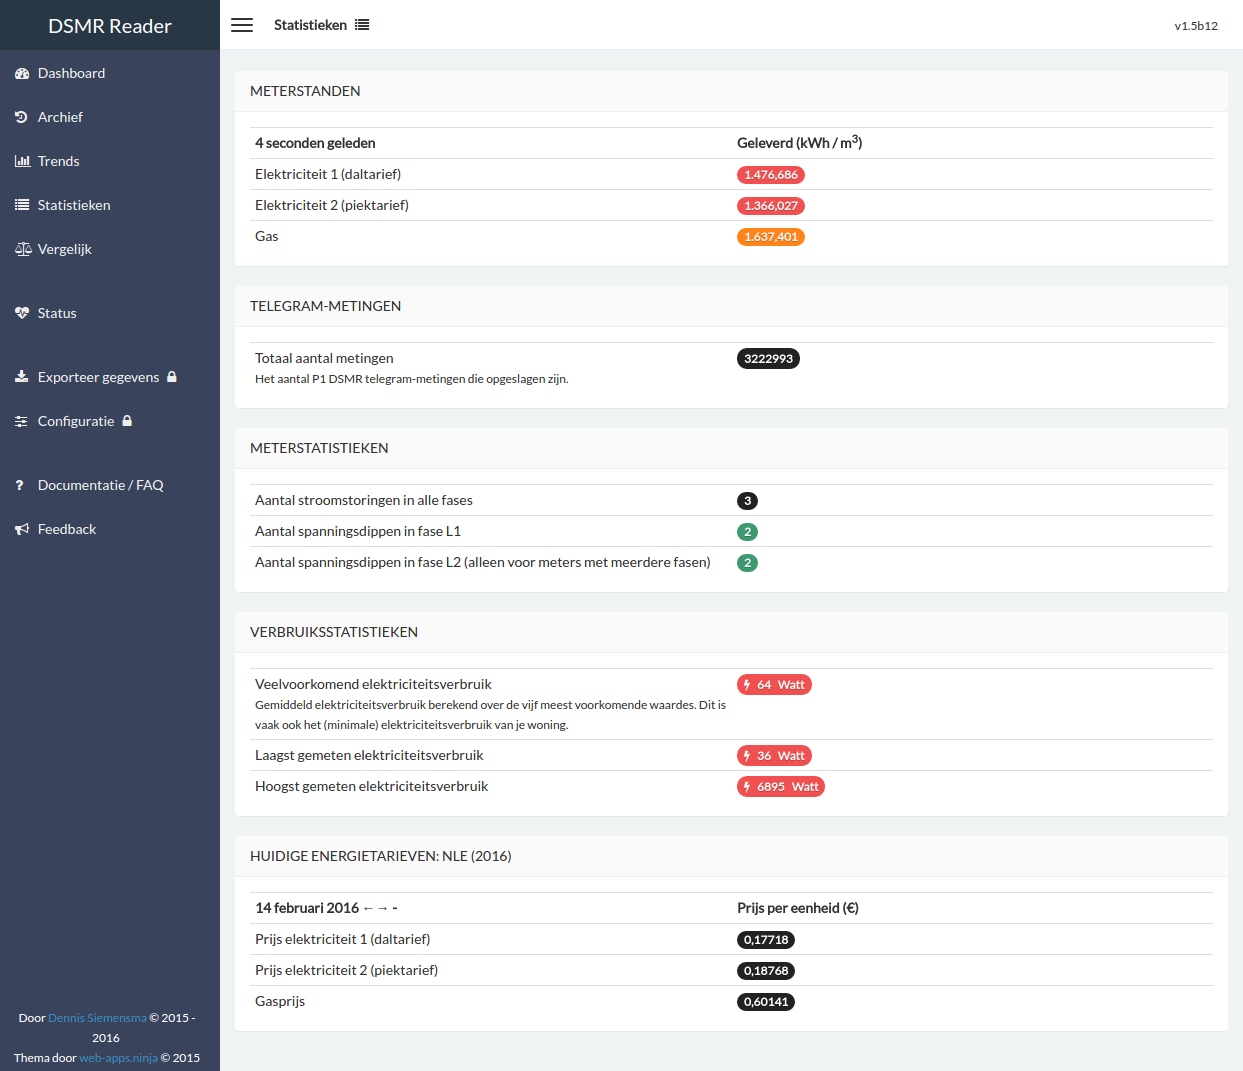
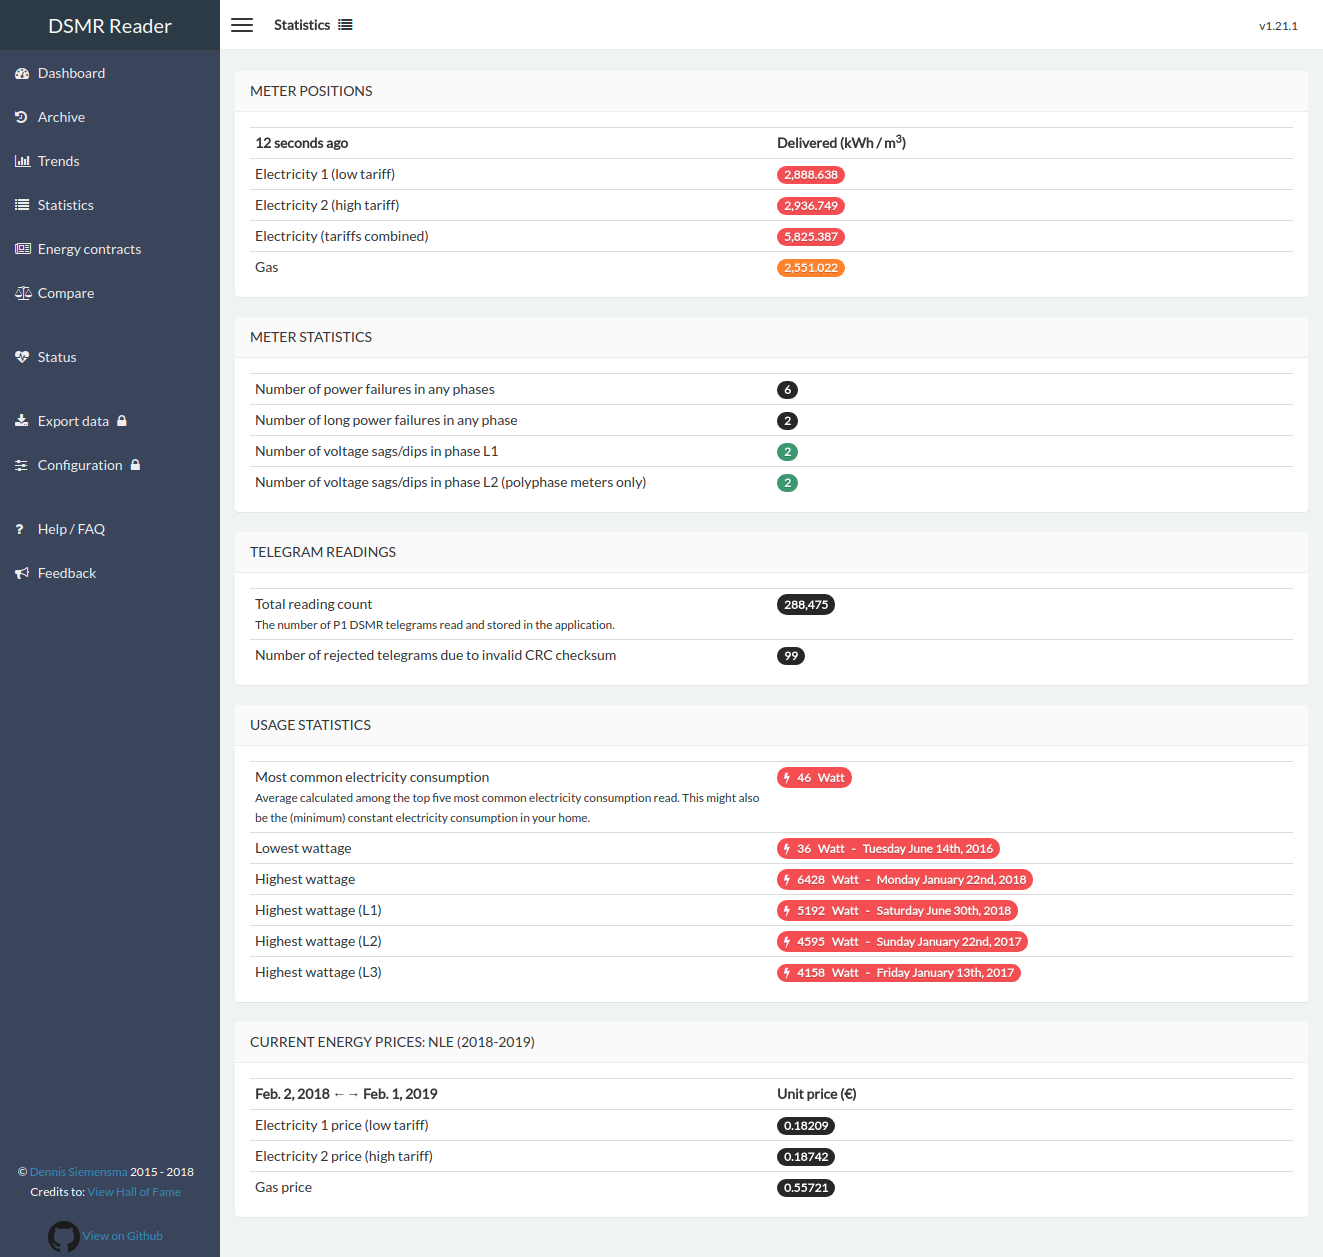
Update documentation screenshots #495

diff --git a/README.md b/README.md
@@ -4,13 +4,8 @@
 [![Requirements Status](https://requires.io/github/dennissiemensma/dsmr-reader/requirements.svg?branch=master)](https://requires.io/github/dennissiemensma/dsmr-reader/requirements/?branch=master)
 [![Donate](https://img.shields.io/badge/Donate-PayPal-green.svg)](https://dsmr-reader.readthedocs.io/en/latest/donations.html)
 
-# DSMR Reader Datalogger/GUI
 
-## Project mission & goals
-- Have fun by reading your smart meter at home yourself!
-- Provide an easy to use setup for logging your own energy consumption.
-- Keeping your data for yourself (all data is stored locally and untracked as well).
-- Always free to use (and open source).
+# DSMR Reader Datalogger/GUI
 
 
 ## Documentation (`English` & `Nederlands`)
@@ -18,8 +13,22 @@
 - `Nederlands`: Zie [Read The Docs, in het Nederlands](https://dsmr-reader.readthedocs.io/nl/latest/). Je kunt daar ook alle installatieinstructies vinden.
 
 
-## Screenshots
-More screenshots can be found in the documentation at [Read The Docs](https://dsmr-reader.readthedocs.io/en/latest/screenshots.html).
+## Project mission
+- **Always free to use** (for non-commercial use only).
+- **Keeping your data for yourself** (none of the data is stored outside your database, unless you explicitly upload it to a third party).
+
+## Features
+- Application languages supported: **Dutch (Nederlands)**  and **English**. The language used in your browser dynamicly decides the language applied in the application.
+- Optional Support for **exporting data to third-parties**: MinderGas.nl, PVOutput.org.
+- Also supports local exports: CSV, SQL back-ups & optional daily upload to Dropbox.
+- Notifications on your devices, supporting **Pushover** and **Prowl** apps!
+- Optional data rotation/retention, keeping your dataset small and portable.
+- Compare two days, months or years with each other.
+- REST API to either insert or read data realtime.
+- Keep track of certain events by sticking your own notes to a day, reminding yourself what happened that day.
+- Support for MQTT export.
+- Extendable plug-in system.
+- Scrollable graphs.
 
 
 ### Dashboard
@@ -28,3 +37,15 @@ More screenshots can be found in the documentation at [Read The Docs](https://ds
 
 ### Archive
 ![Archive](docs/_static/screenshots/archive.png)
+
+
+### Trends
+![Archive](docs/_static/screenshots/trends.png)
+
+
+### Energy contracts
+![Archive](docs/_static/screenshots/energy-contracts.png)
+
+
+## Screenshots
+More screenshots can be found in the documentation at [Read The Docs](https://dsmr-reader.readthedocs.io/en/latest/screenshots.html).

diff --git a/docs/screenshots.rst b/docs/screenshots.rst
@@ -43,6 +43,15 @@ The statistics page will display the current state of your meter and the energy 
     :alt: Statistics
 
 
+Energy contracts
+----------------
+Summary of all your contracts and the amount of energy consumed/generated. 
+
+.. image:: _static/screenshots/energy-contracts.png
+    :target: _static/screenshots/energy-contracts.png
+    :alt: Energy contracts
+
+
 Compare
 -------
 This page allows you to compare two days, months or years tracked before. 

diff --git a/docs/changelog.rst b/docs/changelog.rst
@@ -24,6 +24,7 @@ v1.22.0 - 2018-xx-x
 **Tickets resolved in this release:**
 
 - [`#493 <https://github.com/dennissiemensma/dsmr-reader/issues/493>`_] Requirements update (July 2018)
+- [`#495 <https://github.com/dennissiemensma/dsmr-reader/issues/495>`_] Update documentation screenshots
 - [`#xxxxxxxxx <https://github.com/dennissiemensma/dsmr-reader/issues/xxxxxxxxx>`_] xxxxxxxxxxx
 
 
